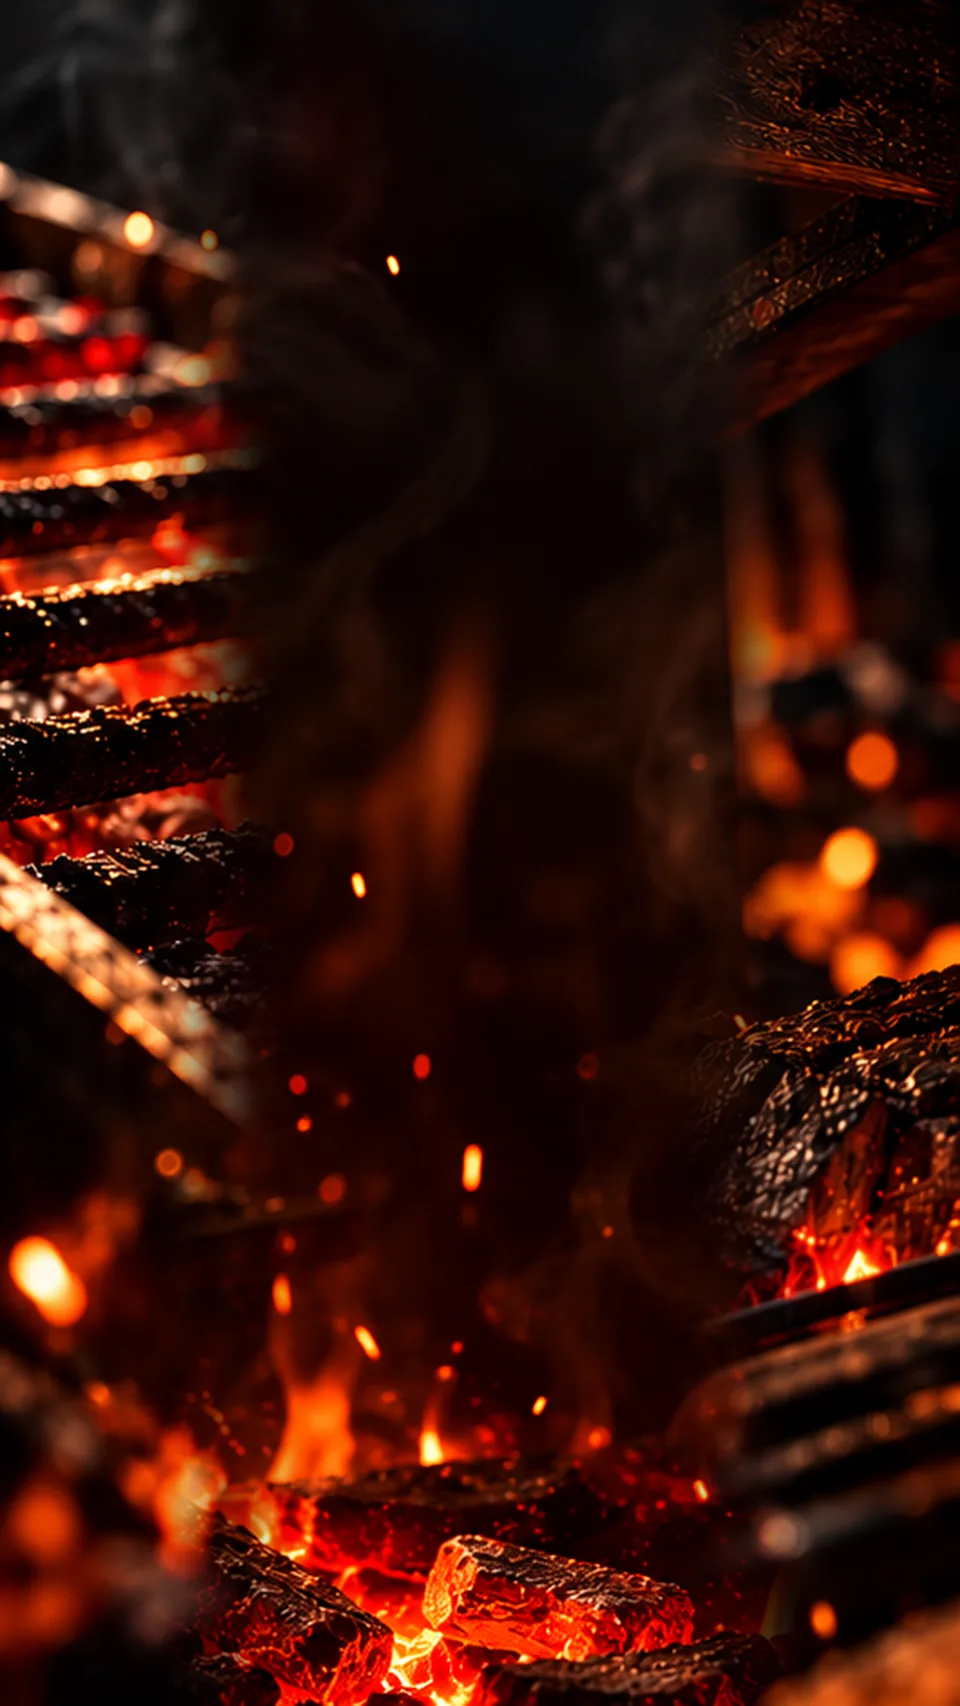
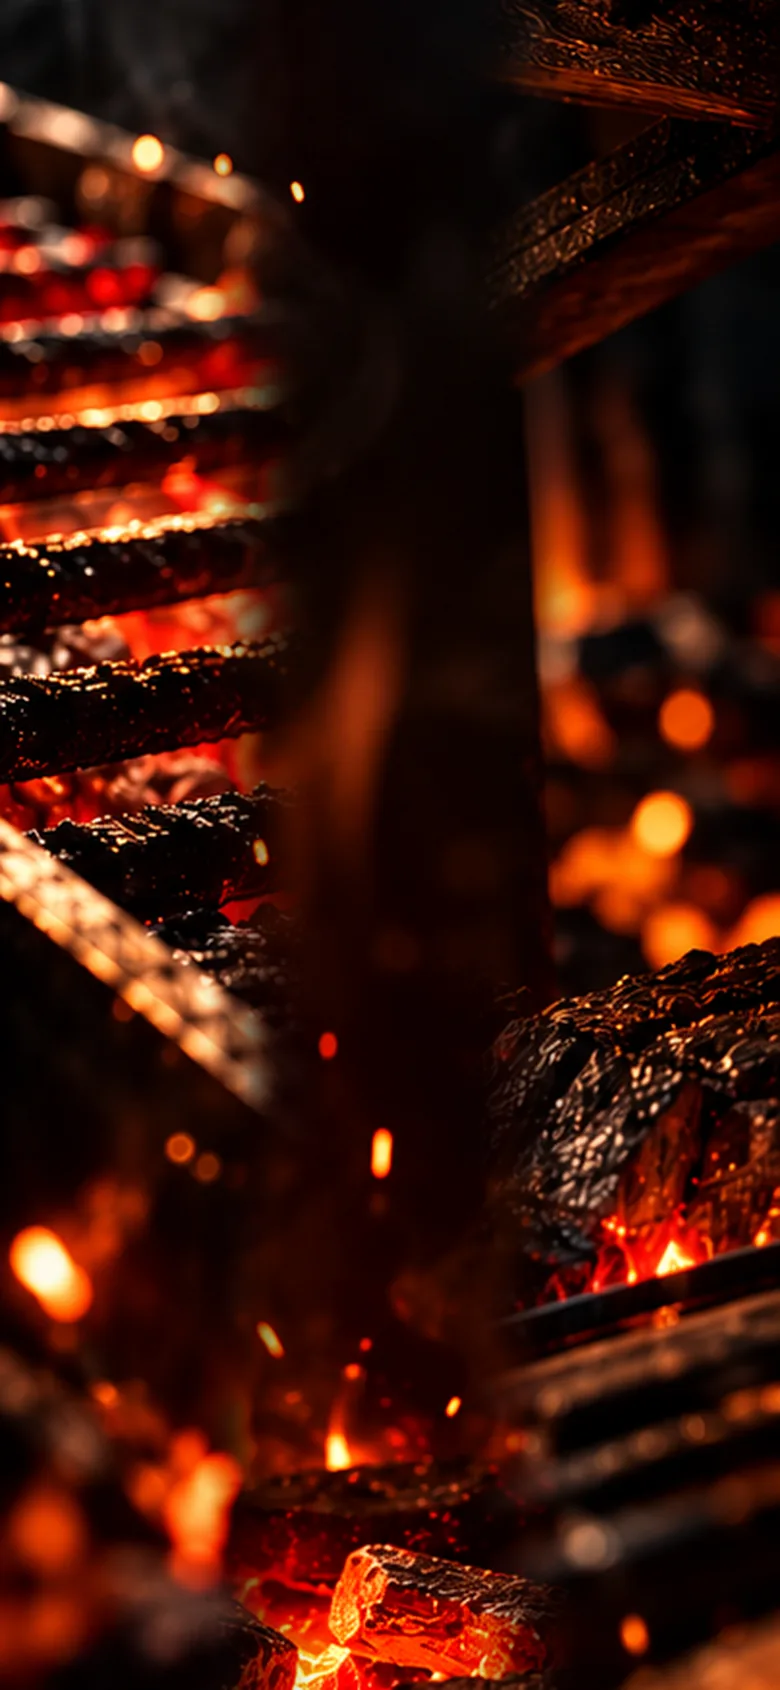
Ajusta o enquadramento da churrasqueira no celular.
O fundo vertical fica mais estreito para o fogo permanecer nas laterais, e o cartão ganha margem suficiente sem cortar os botões.

diff --git a/src/styles.css b/src/styles.css
@@ -138,7 +138,7 @@ p {
 }
 
 .card-stack {
-  width: min(25.75rem, calc(100% - clamp(2.35rem, 12vw, 4rem)));
+  width: min(25.5rem, calc(100% - clamp(2.6rem, 13vw, 4.25rem)));
 }
 
 .card {
@@ -310,6 +310,7 @@ p {
   color: var(--muted);
   font-size: 0.86rem;
   line-height: 1.3;
+  text-wrap: pretty;
 }
 
 .option-chevron {
@@ -566,7 +567,7 @@ p {
 
 @media (max-width: 360px) {
   .card-stack {
-    width: min(25.75rem, calc(100% - 1.7rem));
+    width: calc(100% - 2.5rem);
   }
 
   .hours,
